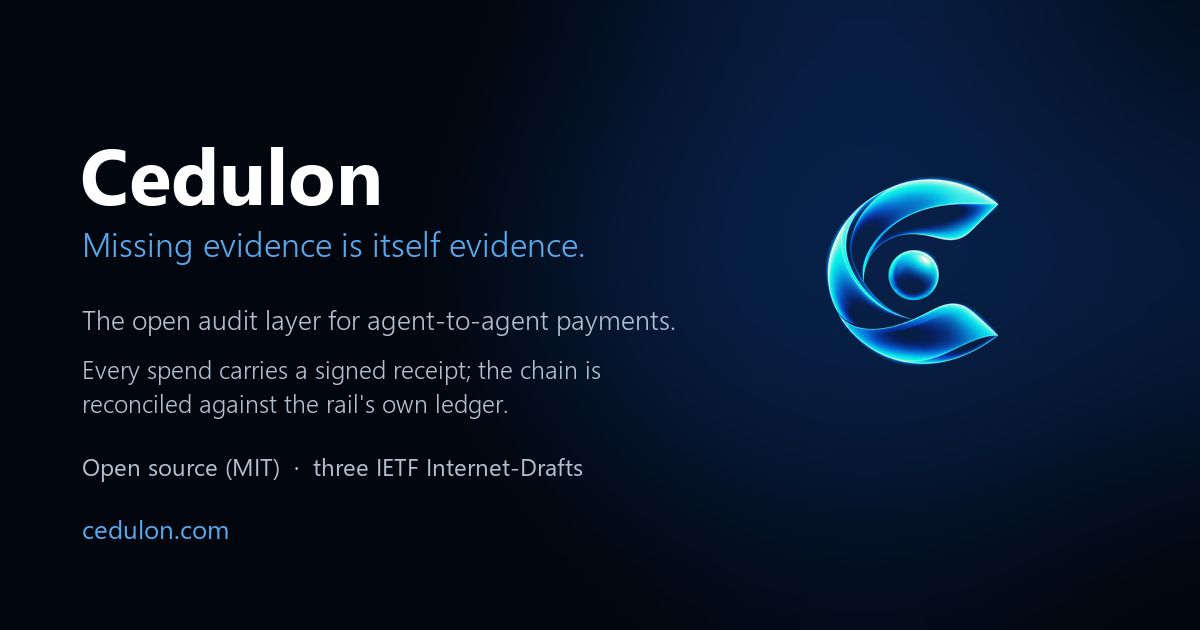
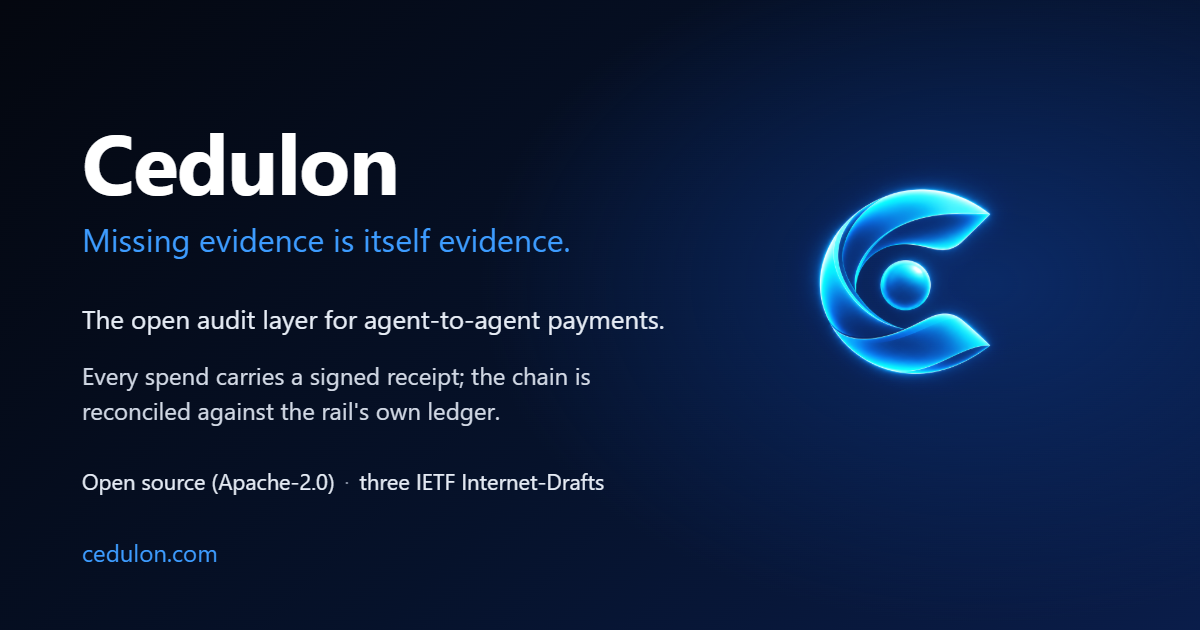
Share image: say Apache-2.0, and keep its source in the tree.
og.png said "Open source (MIT)"; the licence has been Apache-2.0 since
27 August (LICENSE, every package.json, README, the site footer). The image
was the one place still saying otherwise, and it is the card every share
shows. It is now rendered from site/og.html with headless Chrome, so the
next wording change is a text edit; og-mark.png is the mark it composites.

Claude-Session: https://claude.ai/code/session_019u1LYEDzVuDjF4Gqn64r3D

diff --git a/site/og.html b/site/og.html
@@ -1,0 +1,65 @@
+<!DOCTYPE html>
+<!--
+  Source of og.png. Render at exactly 1200x630 with headless Chrome:
+
+    chrome --headless=new --window-size=1200,630 --hide-scrollbars \
+      --screenshot=site/og.png file:///path/to/site/og.html
+
+  The mark (og-mark.png) sits on a black square; mix-blend-mode: screen drops
+  the black and keeps the glow, so no alpha channel is needed.
+-->
+<html lang="en">
+  <head>
+    <meta charset="utf-8">
+    <title>Cedulon share image</title>
+    <style>
+      html, body { margin: 0; width: 1200px; height: 630px; overflow: hidden; }
+      body {
+        position: relative;
+        font-family: "Segoe UI", system-ui, sans-serif;
+        color: #ffffff;
+        background:
+          radial-gradient(ellipse 70% 90% at 82% 45%, #0b2a66 0%, rgba(11, 42, 102, 0) 60%),
+          linear-gradient(135deg, #04070f 0%, #06122b 55%, #0a1d4a 100%);
+      }
+      .text { position: absolute; left: 82px; top: 118px; width: 660px; }
+      h1 {
+        margin: 0;
+        font-size: 84px;
+        line-height: 1;
+        font-weight: 700;
+        letter-spacing: -1.5px;
+      }
+      .tagline {
+        margin: 18px 0 0;
+        font-size: 32px;
+        line-height: 1.2;
+        color: #3d9cff;
+      }
+      .lede { margin: 44px 0 0; font-size: 26px; line-height: 1.3; color: #e6ecf5; }
+      .body { margin: 22px 0 0; font-size: 24px; line-height: 1.45; color: #d2d9e5; max-width: 560px; }
+      .meta { margin: 38px 0 0; font-size: 22px; color: #e6ecf5; }
+      .meta span { color: #8a94a6; margin: 0 10px; }
+      .url { margin: 40px 0 0; font-size: 24px; color: #3d9cff; }
+      .mark {
+        position: absolute;
+        right: 148px;
+        top: 130px;
+        width: 300px;
+        height: 300px;
+        mix-blend-mode: screen;
+      }
+    </style>
+  </head>
+  <body>
+    <div class="text">
+      <h1>Cedulon</h1>
+      <p class="tagline">Missing evidence is itself evidence.</p>
+      <p class="lede">The open audit layer for agent-to-agent payments.</p>
+      <p class="body">Every spend carries a signed receipt; the chain is reconciled against the rail's own ledger.</p>
+      <p class="meta">Open source (Apache-2.0)<span>·</span>three IETF Internet-Drafts</p>
+      <p class="url">cedulon.com</p>
+    </div>
+    <img class="mark" src="og-mark.png" alt="">
+  </body>
+</html>
